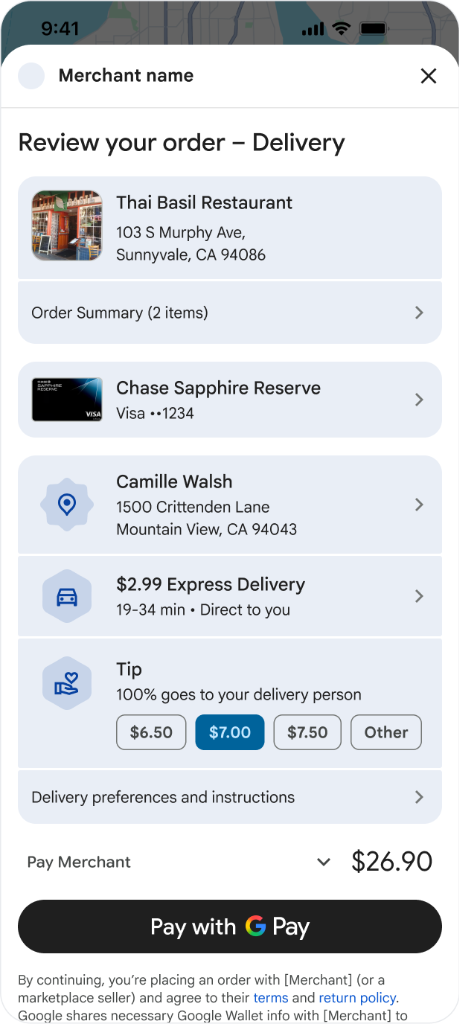
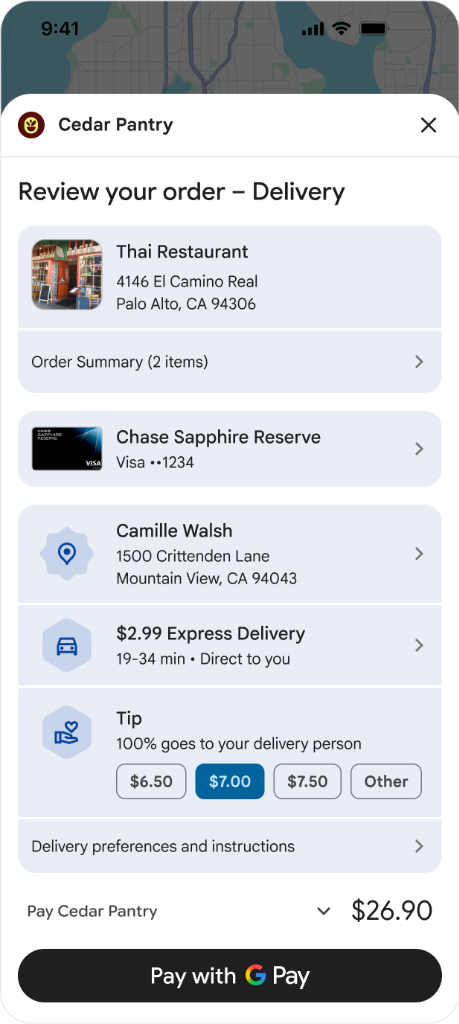
docs(food): update homepage mockup and establishment details

diff --git a/docs/index.md b/docs/index.md
@@ -959,14 +959,14 @@ image: assets/banner.png
       "last_name": "Walsh"
     },
     "food_establishment": {
-      "id": "est_thai_basil_01",
-      "name": "Thai Basil Restaurant",
+      "id": "est_thai_restaurant",
+      "name": "Thai Restaurant",
       "address": {
-        "street_address": "103 S Murphy Ave",
-        "address_locality": "Sunnyvale",
+        "street_address": "4146 El Camino Real",
+        "address_locality": "Palo Alto",
         "address_region": "CA",
         "address_country": "US",
-        "postal_code": "94086"
+        "postal_code": "94306"
       },
       "media": [
         {
